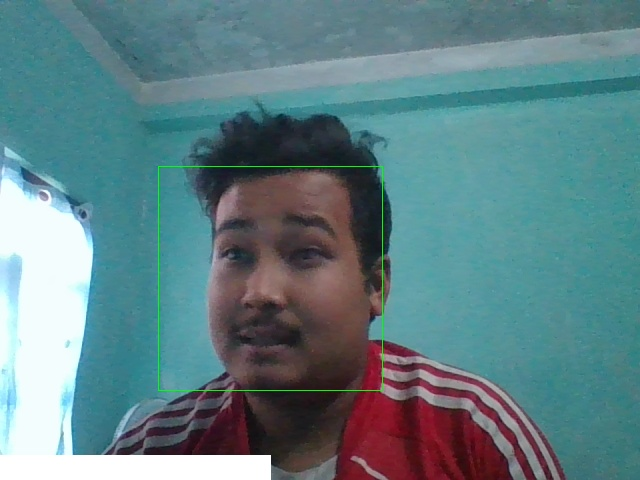
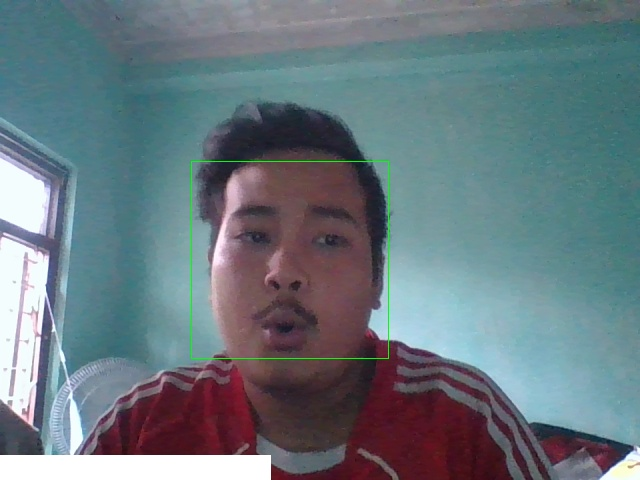
Up to NOw

diff --git a/flaskApp/camera.py b/flaskApp/camera.py
@@ -35,7 +35,7 @@ class recordData(object):
     def __init__(self):
         # self.address ="http://192.168.0.100:8080/video"
         # self.video = cv2.VideoCapture(self.address)
-        self.video = cv2.VideoCapture(1)
+        self.video = cv2.VideoCapture(0)
         self.no_of_faces = 0
 
     def __del__(self):

diff --git a/flaskApp/main.py b/flaskApp/main.py
@@ -43,7 +43,7 @@ def indexindex():
     return render_template('record.html')
 
 
-@app.route('/')
+@app.route('/record/new')
 def recordrecord():
     return Response(gen(recordData()),
                     mimetype='multipart/x-mixed-replace; boundary=frame')
